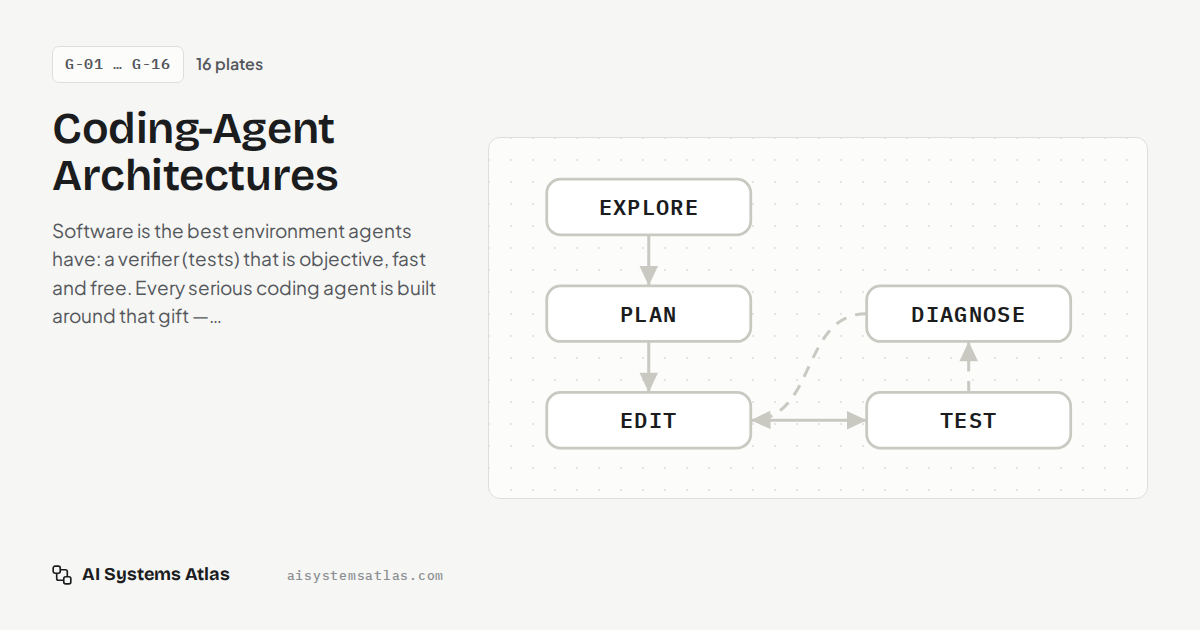
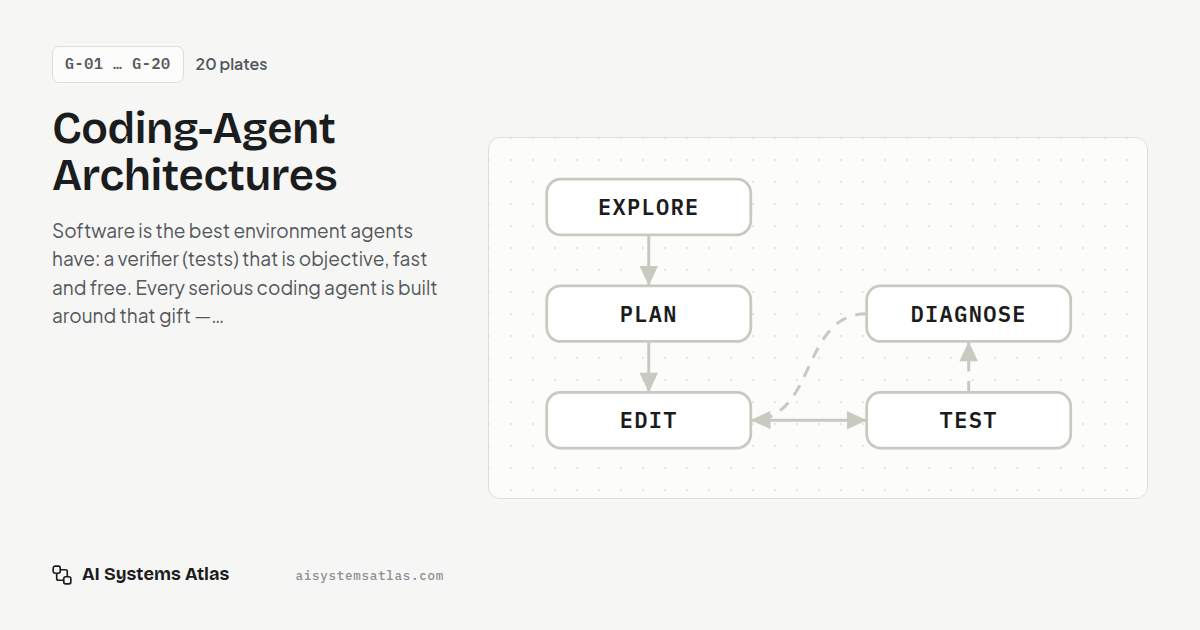
Add coding-agent plates G-17..G-20: background agents, hooks, language servers, reviewing agent PRs
Four new diagrams and plates, five new Claude Code documentation references,
related links from existing plates, and OG images. Also types Plate.refs so
npm run check passes.

Claude-Session: https://claude.ai/code/session_018LCsvUa14dUXz1EFGJHP2n

diff --git a/src/data/diagrams.js b/src/data/diagrams.js
@@ -2543,3 +2543,169 @@ DIAGRAMS.mergeIntegration = {
     { cap: '<span class="cap-ok">So integration is its own role</span> — one place that holds both changes, not a ping-pong between authors.', ok: ['integ'], okE: ['c-i'], d: 2800 },
   ],
 };
+
+/* ---------- CODING G-17..G-20 ---------- */
+
+DIAGRAMS.backgroundAgent = {
+  w: 720, h: 316, dur: 1750,
+  aria: 'Background agent: a developer dispatches a task to a remote sandbox that clones the repo and runs setup, the agent works unattended and opens a pull request, CI failures and review comments wake it to push fixes, and the developer reviews the result later.',
+  nodes: [
+    { id: 'dev', x: 100, y: 70, kind: 'human', label: 'DEVELOPER', sub: 'dispatches a task', w: 160 },
+    { id: 'setup', x: 340, y: 70, kind: 'chip', label: 'FRESH CLONE · SETUP SCRIPT', w: 180, h: 28 },
+    { id: 'agent', x: 340, y: 150, kind: 'model', label: 'AGENT', sub: 'no one watching', w: 180 },
+    { id: 'checks', x: 340, y: 240, kind: 'chip', label: 'RUNS ITS OWN CHECKS', w: 180, h: 28 },
+    { id: 'ci', x: 610, y: 56, kind: 'env', label: 'CI', sub: 'runs on every push', w: 170 },
+    { id: 'pr', x: 610, y: 150, kind: 'data', label: 'BRANCH + PR', w: 170 },
+    { id: 'rev', x: 610, y: 262, kind: 'human', label: 'YOU, LATER', sub: 'review the PR', w: 170 },
+  ],
+  bounds: [{ id: 'sb', x: 226, y: 28, w: 228, h: 250, label: 'REMOTE SANDBOX' }],
+  notes: [
+    { id: 'away', x: 100, y: 146, anchor: 'middle', ghost: true, text: ['laptop closed —', 'the run carries on'] },
+  ],
+  edges: [
+    { id: 'd-s', from: 'dev', to: 'setup', label: 'task', lx: -12, ly: -8 },
+    { id: 's-a', from: 'setup', to: 'agent', label: 'ready', lx: 20, ly: 3 },
+    { id: 'a-c', from: 'agent', to: 'checks', label: 'verify', lx: 22, ly: 3 },
+    { id: 'a-p', from: 'agent', to: 'pr', off: 8, label: 'push', labelT: 0.6, ly: 16 },
+    { id: 'p-ci', from: 'pr', to: 'ci', label: 'triggers', lx: 30, ly: 3 },
+    { id: 'c-a', from: 'ci', to: 'agent', kind: 'ctl', d: 'M525 56 C 478 56 478 136 430 136', label: 'red wakes it', labelT: 0.5, lanchor: 'start', lx: 10, ly: 3 },
+    { id: 'p-r', from: 'pr', to: 'rev', label: 'notify', lx: 26, ly: 3 },
+    { id: 'r-a', from: 'rev', to: 'agent', kind: 'ctl', d: 'M525 262 C 478 262 478 166 430 166', label: 'comments too', labelT: 0.5, lanchor: 'start', lx: 10, ly: 3 },
+  ],
+  steps: [
+    { cap: 'A developer hands off a task and closes the laptop. Nothing about the run needs them present.', n: ['dev'], show: ['away'] },
+    { cap: 'The task lands in a remote sandbox: a fresh clone and the repo’s own setup script, not someone’s machine.', n: ['dev', 'setup'], e: ['d-s'], show: ['away'] },
+    { cap: 'The agent works unattended — explore, edit, and run the checks itself, because nobody else is there to.', n: ['setup', 'agent', 'checks'], e: ['s-a', 'a-c'] },
+    { cap: 'The output is not a chat reply. It is a branch and a pull request, and pushing it starts CI.', n: ['agent', 'pr', 'ci'], e: ['a-p', 'p-ci'] },
+    { cap: '<span class="cap-bad">CI goes red.</span> The failure event, logs included, wakes the agent — nothing polls.', bad: ['ci'], badE: ['c-a'], n: ['agent'] },
+    { cap: 'Once the PR is ready, the developer is notified and reviews it when they choose. Hours later is fine.', n: ['pr', 'rev'], e: ['p-r'] },
+    { cap: 'Review comments are events too: they wake the same agent, in the same sandbox, to push a fix.', n: ['rev', 'agent'], e: ['r-a'] },
+    { cap: '<span class="cap-ok">Green, comments resolved.</span> The human spent minutes reviewing instead of hours supervising.', ok: ['ci', 'pr', 'rev'], okE: ['p-r'], d: 2800 },
+  ],
+};
+
+DIAGRAMS.hooks = {
+  w: 740, h: 332, dur: 1750,
+  aria: 'Hooks and lifecycle events: a session emits fixed events — start, before a tool call, after a tool call, and stop — and at each one the harness runs a script that injects context, blocks a call, formats and lints, or refuses to end the turn while tests are red, whereas an instruction file is only advisory.',
+  nodes: [
+    { id: 'agent', x: 88, y: 64, kind: 'model', label: 'AGENT', sub: 'the session', w: 140 },
+    { id: 'e1', x: 250, y: 64, kind: 'chip', label: 'SESSION START', w: 124 },
+    { id: 'e2', x: 390, y: 64, kind: 'chip', label: 'BEFORE A TOOL', w: 124 },
+    { id: 'e3', x: 530, y: 64, kind: 'chip', label: 'AFTER A TOOL', w: 124 },
+    { id: 'e4', x: 670, y: 64, kind: 'chip', label: 'SAYS “DONE”', w: 124 },
+    { id: 'h1', x: 250, y: 174, kind: 'policy', label: 'INJECT', sub: 'branch · todo', w: 128 },
+    { id: 'h2', x: 390, y: 174, kind: 'policy', label: 'GUARD', sub: 'can block', w: 128 },
+    { id: 'h3', x: 530, y: 174, kind: 'policy', label: 'FORMAT', sub: '+ lint', w: 128 },
+    { id: 'h4', x: 670, y: 174, kind: 'policy', label: 'TESTS', sub: 'gate the stop', w: 128 },
+    { id: 'o1', x: 250, y: 264, kind: 'chip', label: 'STATE IN CONTEXT', w: 124 },
+    { id: 'o2', x: 390, y: 264, kind: 'chip', label: 'BLOCKED + REASON', w: 124 },
+    { id: 'o3', x: 530, y: 264, kind: 'chip', label: 'CLEAN FILE', w: 124 },
+    { id: 'o4', x: 670, y: 264, kind: 'chip', label: 'NOT DONE: 2 RED', w: 124 },
+    { id: 'instr', x: 88, y: 264, kind: 'data', label: 'INSTRUCTIONS', sub: '“always run lint”', w: 150 },
+  ],
+  bounds: [{ id: 'hk', x: 178, y: 118, w: 558, h: 176 }],
+  notes: [{ id: 'hkn', x: 457, y: 316, anchor: 'middle', text: 'the harness runs these, every time — the model cannot skip them' }],
+  edges: [
+    { id: 'a-1', from: 'agent', to: 'e1', kind: 'ctl' },
+    { id: '1-2', from: 'e1', to: 'e2', kind: 'ctl' },
+    { id: '2-3', from: 'e2', to: 'e3', kind: 'ctl' },
+    { id: '3-4', from: 'e3', to: 'e4', kind: 'ctl' },
+    { id: 'e1-h', from: 'e1', to: 'h1', label: 'fires', lx: 20, ly: -2 },
+    { id: 'e2-h', from: 'e2', to: 'h2' },
+    { id: 'e3-h', from: 'e3', to: 'h3' },
+    { id: 'e4-h', from: 'e4', to: 'h4' },
+    { id: 'h1-o', from: 'h1', to: 'o1' },
+    { id: 'h2-o', from: 'h2', to: 'o2', label: 'deny', lx: 18, ly: 3 },
+    { id: 'h3-o', from: 'h3', to: 'o3' },
+    { id: 'h4-o', from: 'h4', to: 'o4', label: 'red', lx: 16, ly: 3 },
+    { id: 'i-a', from: 'instr', to: 'agent', kind: 'ctl', label: 'advisory only', lanchor: 'start', lx: 8, ly: 3 },
+  ],
+  steps: [
+    { cap: 'A session has fixed moments: it starts, it is about to call a tool, the call returns, it declares itself done.', n: ['agent', 'e1', 'e2', 'e3', 'e4'], e: ['a-1', '1-2', '2-3', '3-4'] },
+    { cap: 'Instructions can ask for the same things — <span class="cap-bad">but the model weighs them against everything else, and forgets.</span>', bad: ['instr'], badE: ['i-a'], n: ['agent'] },
+    { cap: 'A hook is a script the harness runs at the moment itself. At session start: put the branch and open task in context.', n: ['e1', 'h1', 'o1'], e: ['e1-h', 'h1-o'], show: ['hk'] },
+    { cap: 'Before a tool call, a guard sees the exact command — and <span class="cap-bad">can refuse it</span>, returning the reason as context.', n: ['e2', 'h2'], bad: ['o2'], e: ['e2-h'], badE: ['h2-o'], show: ['hk'] },
+    { cap: 'After every edit, the formatter and linter run. Not when the model remembers — every time.', n: ['e3', 'h3', 'o3'], e: ['e3-h', 'h3-o'], show: ['hk'] },
+    { cap: 'When the agent says it is done, the tests run first. <span class="cap-bad">Red means the turn cannot end.</span>', n: ['e4', 'h4'], bad: ['o4'], e: ['e4-h'], badE: ['h4-o'], show: ['hk'] },
+    { cap: '<span class="cap-ok">Instructions shape what the model tries to do; hooks decide what happens regardless.</span>', ok: ['h1', 'h2', 'h3', 'h4'], show: ['hk'], d: 2800 },
+  ],
+};
+
+DIAGRAMS.languageServer = {
+  w: 720, h: 372, dur: 1750,
+  aria: 'Language-server integration: grep for a function name returns noisy text matches, while a language server returns the exact definition and references; after each edit the server pushes diagnostics, so a new type error reaches the agent before any test runs.',
+  nodes: [
+    { id: 'agent', x: 100, y: 170, kind: 'model', label: 'AGENT', sub: 'who calls save()?', w: 170 },
+    { id: 'grep', x: 340, y: 60, kind: 'tool', label: 'GREP “save(”', sub: 'text search', w: 170 },
+    { id: 'gres', x: 590, y: 60, kind: 'data', label: '47 TEXT MATCHES', sub: 'mostly the wrong save()', w: 210 },
+    { id: 'lsp', x: 340, y: 170, kind: 'tool', label: 'LANGUAGE SERVER', sub: 'the IDE’s type engine', w: 190 },
+    { id: 'refs', x: 590, y: 170, kind: 'data', label: 'DEFINITION + REFS', sub: '6 call sites, exact', w: 210 },
+    { id: 'edit', x: 300, y: 280, kind: 'tool', label: 'EDIT FILE', w: 140 },
+    { id: 'diag', x: 590, y: 285, kind: 'data', label: 'DIAGNOSTICS', sub: 'arg 2: string, not int', w: 200 },
+  ],
+  notes: [
+    { id: 'fast', x: 600, y: 248, anchor: 'middle', ghost: true, text: 'under a second · no build · no test run' },
+  ],
+  edges: [
+    { id: 'a-g', from: 'agent', to: 'grep', fromSide: 't', toSide: 'l', label: 'search text', labelT: 0.6, ly: -8 },
+    { id: 'g-r', from: 'grep', to: 'gres', label: 'noise', ly: -8 },
+    { id: 'a-l', from: 'agent', to: 'lsp', label: 'by symbol', ly: -8 },
+    { id: 'l-r', from: 'lsp', to: 'refs', label: 'exact', ly: -8 },
+    { id: 'a-e', from: 'agent', to: 'edit', d: 'M130 195 C 130 256 170 280 230 280', label: 'edit', labelT: 0.45, lx: -16, ly: 8 },
+    { id: 'e-l', from: 'edit', to: 'lsp', d: 'M300 260 L300 195', label: 'on change', lx: -30, ly: 3 },
+    { id: 'l-d', from: 'lsp', to: 'diag', d: 'M370 195 C 370 262 420 285 490 285', label: 'pushes', labelT: 0.55, lx: 12, ly: -8 },
+    { id: 'd-a', from: 'diag', to: 'agent', d: 'M590 310 C 590 362 40 362 40 195', label: 'fixed before tests', labelT: 0.5, ly: -7 },
+  ],
+  steps: [
+    { cap: 'The agent needs to change save(). First question: who calls it?', n: ['agent'] },
+    { cap: '<span class="cap-bad">Grep answers a different question</span> — where does the text “save(” appear — and returns comments, strings and three unrelated save methods.', n: ['agent', 'grep'], e: ['a-g'], bad: ['gres'], badE: ['g-r'] },
+    { cap: 'A language server answers the real one. It resolved every type when it indexed the project.', n: ['agent', 'lsp'], e: ['a-l'] },
+    { cap: '<span class="cap-ok">The definition and every true reference, exact</span> — one call, nothing to read through and discard.', n: ['lsp'], ok: ['refs'], okE: ['l-r'] },
+    { cap: 'Now the agent edits. The server re-checks the changed file the moment it is written.', n: ['agent', 'edit', 'lsp'], e: ['a-e', 'e-l'] },
+    { cap: '<span class="cap-bad">A new type error</span> — the second argument is now a string — pushed back in under a second.', n: ['lsp'], bad: ['diag'], badE: ['l-d'], show: ['fast'] },
+    { cap: '<span class="cap-ok">Fixed before any test runs.</span> The cheapest rung of the verifier ladder, attached to every edit.', n: ['diag'], ok: ['agent'], okE: ['d-a'], d: 2800 },
+  ],
+};
+
+DIAGRAMS.agentPrReview = {
+  w: 740, h: 350, dur: 1750,
+  aria: 'Reviewing agent-authored pull requests: several agents open green PRs with a summary and trajectory, all converging on one human reviewer, who checks scope, tests edited alongside code, invented APIs and evidence; any failure goes back to the agent as a narrower task, and four passes merge.',
+  nodes: [
+    { id: 'a1', x: 80, y: 60, kind: 'model', label: 'AGENT', w: 110 },
+    { id: 'a2', x: 80, y: 116, kind: 'model', label: 'AGENT', w: 110 },
+    { id: 'a3', x: 80, y: 172, kind: 'model', label: 'AGENT', w: 110 },
+    { id: 'q', x: 264, y: 116, kind: 'data', label: 'AGENT PRS', sub: 'diff · summary · trajectory', w: 206 },
+    { id: 'rev', x: 474, y: 116, kind: 'human', label: 'REVIEWER', sub: 'finite attention', w: 144 },
+    { id: 'c1', x: 652, y: 58, kind: 'chip', label: 'ONLY THE TASK?', w: 150 },
+    { id: 'c2', x: 652, y: 102, kind: 'chip', label: 'TESTS UNTOUCHED?', w: 150 },
+    { id: 'c3', x: 652, y: 146, kind: 'chip', label: 'APIS REALLY EXIST?', w: 150 },
+    { id: 'c4', x: 652, y: 190, kind: 'chip', label: 'CLAIMS HAVE EVIDENCE?', w: 150 },
+    { id: 'back', x: 460, y: 296, kind: 'chip', label: 'SEND BACK WITH A REASON', w: 180, h: 28 },
+    { id: 'merge', x: 652, y: 296, kind: 'evaluator', label: 'MERGE', w: 150 },
+  ],
+  bounds: [{ id: 'chk', x: 566, y: 16, w: 172, h: 196, label: 'WHAT GREEN CI MISSES' }],
+  notes: [
+    { id: 'load', x: 264, y: 196, anchor: 'middle', ghost: true, text: ['3 agents × 3 PRs a day', '= 9 reviews for 1 person'] },
+  ],
+  edges: [
+    { id: 'a1-q', from: 'a1', to: 'q' },
+    { id: 'a2-q', from: 'a2', to: 'q' },
+    { id: 'a3-q', from: 'a3', to: 'q' },
+    { id: 'q-r', from: 'q', to: 'rev' },
+    { id: 'r-c', from: 'rev', to: 'c2' },
+    { id: 'c-m', from: 'c4', to: 'merge', label: 'four yeses', lx: 34, ly: 3 },
+    { id: 'c-b', from: 'c4', to: 'back', d: 'M566 200 C 510 200 460 230 460 282', label: 'any “no”', labelT: 0.35, lx: -8, ly: -6 },
+    { id: 'b-a', from: 'back', to: 'a3', kind: 'ctl', d: 'M370 296 C 200 296 80 270 80 192', label: 'a narrower task', labelT: 0.45, ly: 15 },
+  ],
+  steps: [
+    { cap: 'Agents open pull requests faster than any team has ever received them.', n: ['a1', 'a2', 'a3', 'q'], e: ['a1-q', 'a2-q', 'a3-q'] },
+    { cap: 'Each arrives green, with a summary and the trajectory: every command the agent ran and what came back.', n: ['q'] },
+    { cap: 'They all converge on one scarce resource — a person’s attention. Review, not generation, is now the bottleneck.', n: ['q', 'rev'], e: ['q-r'], show: ['load'] },
+    { cap: '<span class="cap-bad">Scope creep:</span> files the task never mentioned, “tidied” along the way. Green CI does not care.', n: ['rev'], e: ['r-c'], bad: ['c1'], show: ['chk'] },
+    { cap: '<span class="cap-bad">Tests edited in the same diff as the code</span> — an assertion loosened until it passed.', n: ['rev'], e: ['r-c'], bad: ['c2'], show: ['chk'] },
+    { cap: '<span class="cap-bad">An API that does not exist</span>, called confidently, behind a mock that makes the test pass.', n: ['rev'], e: ['r-c'], bad: ['c3'], show: ['chk'] },
+    { cap: 'The trajectory is the evidence: did it run the tests and read the output, or only say it did?', n: ['c4', 'q'], show: ['chk'] },
+    { cap: '<span class="cap-bad">Any “no” goes back</span> with its reason, as a narrower task — not quietly fixed by the reviewer.', bad: ['back'], badE: ['c-b'], e: ['b-a'], n: ['a3'] },
+    { cap: '<span class="cap-ok">Four yeses → merge.</span> Small, scoped PRs with evidence attached are what keep each review cheap.', ok: ['c1', 'c2', 'c3', 'c4', 'merge'], okE: ['c-m'], d: 2800 },
+  ],
+};

diff --git a/src/data/collections.js b/src/data/collections.js
@@ -204,7 +204,7 @@ export const COLLECTIONS = {
     title: 'Coding-Agent Architectures',
     short: 'Coding Agents',
     prefix: 'G',
-    intro: 'Software is the best environment agents have: a verifier (tests) that is objective, fast and free. Every serious coding agent is built around that gift — the architectures differ mainly in how they explore, how they parallelize, and how they survive long tasks, and the mechanics underneath decide whether any of it works.',
+    intro: 'Software is the best environment agents have: a verifier (tests) that is objective, fast and free. Every serious coding agent is built around that gift — the architectures differ mainly in how they explore, how they parallelize, how they survive long tasks and how their work gets reviewed, and the mechanics underneath decide whether any of it works.',
     plates: [
       P({ slug: 'test-loop', code: 'G-01', title: 'The Test / Diagnose Loop', dg: 'codingLoop',
         def: 'Understand, explore, plan, edit — then let the test suite verify, and diagnose real failures instead of guessing.',
@@ -224,7 +224,7 @@ export const COLLECTIONS = {
         def: 'Push, let CI verify remotely, and let failure events — with logs — wake the agent to fix and push again.',
         insight: 'CI extends the verifier beyond the agent’s machine: same loop as test/diagnose, but event-driven and running against the team’s real gates.',
         failure: 'Poll-and-pray: agents that sleep-loop on CI status burn tokens and miss context that the failure event would have carried for free.',
-        related: [['Event-driven agent', '/harnesses/event-driven'], ['Test loop', '/coding-agents/test-loop']], refs: ['anthropicLongRunning'], kw: 'ci push green pipeline event webhook' }),
+        related: [['Event-driven agent', '/harnesses/event-driven'], ['Test loop', '/coding-agents/test-loop'], ['Background agents', '/coding-agents/background-agents']], refs: ['anthropicLongRunning'], kw: 'ci push green pipeline event webhook' }),
     ],
   },
 };
@@ -308,7 +308,7 @@ const EXT_HARNESS_PLATES = [
     def: 'A policy layer wraps the loop and evaluates every proposed action before anything executes.',
     insight: 'The model decides what it wants to do; the layer decides what it can do. Because the layer is outside the model, no amount of persuasion inside the context reaches it.',
     failure: 'Denials that surface as opaque errors. If the agent cannot see why a call was refused, it retries the same call until the budget runs out.',
-    related: [['Human-in-the-loop', '/harnesses/human-in-the-loop'], ['Direct prompt injection', '/security/direct-prompt-injection'], ['Privilege escalation', '/security/privilege-escalation']],
+    related: [['Human-in-the-loop', '/harnesses/human-in-the-loop'], ['Direct prompt injection', '/security/direct-prompt-injection'], ['Privilege escalation', '/security/privilege-escalation'], ['Hooks & lifecycle events', '/coding-agents/hooks']],
     refs: ['camel', 'willisonDesignPatterns', 'owaspLlm'], kw: 'guardrail policy middleware enforcement allowlist interception authorization' }),
 ];
 
@@ -483,7 +483,7 @@ const EXT_CODING_PLATES = [
     def: 'A separate agent reviews the diff with fresh context, catching what the author’s context normalized.',
     insight: 'Author blindness is a context problem, so the fix is a context boundary — the reviewer’s power is precisely what it hasn’t seen.',
     failure: 'Sharing the author’s conversation with the reviewer “for context”: you’ve rebuilt the same blind spots and doubled the cost.',
-    related: [['Generator–Critic', '/harnesses/generator-critic'], ['Test loop', '/coding-agents/test-loop']], refs: ['selfRefine', 'reflexion'], kw: 'reviewer diff fresh context critique' }),
+    related: [['Generator–Critic', '/harnesses/generator-critic'], ['Test loop', '/coding-agents/test-loop'], ['Reviewing agent PRs', '/coding-agents/reviewing-agent-prs']], refs: ['selfRefine', 'reflexion'], kw: 'reviewer diff fresh context critique' }),
   P({ slug: 'worktrees', code: 'G-07', title: 'Worktree Parallelism', dg: 'worktrees',
     def: 'Each agent works in its own git worktree; merge conflicts are surfaced by git, not by luck.',
     insight: 'Filesystem isolation makes parallel agents boring in the best way — and routes their disagreements through tooling built to resolve them.',
@@ -503,7 +503,7 @@ const EXT_CODING_PLATES = [
     def: 'Symbol maps and semantic search turn ten rounds of grep into one hop.',
     insight: 'Navigation is most of a coding agent’s token bill; an index converts that recurring cost into a one-time build.',
     failure: 'A stale index: confidently wrong answers about code that moved is worse than grep’s slow honesty.',
-    related: [['Researcher + Implementer', '/coding-agents/researcher-implementer'], ['Retrieval & RAG', '/context/retrieval']], refs: ['sweagent', 'rag'], kw: 'index symbol semantic search navigation embedding' }),
+    related: [['Researcher + Implementer', '/coding-agents/researcher-implementer'], ['Retrieval & RAG', '/context/retrieval'], ['Language-server integration', '/coding-agents/language-server']], refs: ['sweagent', 'rag'], kw: 'index symbol semantic search navigation embedding' }),
   P({ slug: 'computer-use', code: 'G-11', title: 'Computer-use Coding', dg: 'computerUse',
     def: 'The agent drives a real browser to verify UI changes — closing the loop unit tests can’t see.',
     insight: 'A screenshot in the loop makes “looks right” a checkable claim: vision extends the verifier to layout, styling, and flow.',
@@ -526,13 +526,13 @@ const EXT_CODING_PLATES_2 = [
     def: 'Format, lint, typecheck, unit, integration, CI — ordered by seconds to signal, cheapest first.',
     insight: 'The test loop draws one verifier; in practice it is a ladder, and the ordering is the design. Most iterations never leave the bottom three rungs, which is what makes an agent that edits fifty times an hour affordable.',
     failure: 'One monolithic “run the tests” step. The agent waits four minutes to be told about a syntax error, and every retry costs the full suite again.',
-    related: [['The test / diagnose loop', '/coding-agents/test-loop'], ['CI feedback loop', '/coding-agents/ci-loop'], ['Actor–Verifier', '/harnesses/actor-verifier']],
+    related: [['The test / diagnose loop', '/coding-agents/test-loop'], ['CI feedback loop', '/coding-agents/ci-loop'], ['Actor–Verifier', '/harnesses/actor-verifier'], ['Language-server integration', '/coding-agents/language-server']],
     refs: ['sweagent', 'swebench', 'verifiers'], kw: 'lint typecheck unit integration ci ladder fast feedback tiers seconds to signal' }),
   P({ slug: 'repo-conventions', code: 'G-14', title: 'Repo Conventions as Context', dg: 'repoConventions',
     def: 'A checked-in instructions file that loads every session — how a codebase tells an agent its rules.',
     insight: 'Put in it what is expensive to discover and cheap to state: the build command, the generated directory, the pattern that looks fine and breaks production. Because it is in the tree, it changes through review, like the code it describes.',
     failure: 'Restating what the code already says. Those lines go stale on the first refactor and then actively mislead every session, which is worse than never having written them.',
-    related: [['Researcher + Implementer', '/coding-agents/researcher-implementer'], ['Files as external context', '/context/files-as-context'], ['Repo indexing', '/coding-agents/repo-indexing']],
+    related: [['Researcher + Implementer', '/coding-agents/researcher-implementer'], ['Files as external context', '/context/files-as-context'], ['Repo indexing', '/coding-agents/repo-indexing'], ['Hooks & lifecycle events', '/coding-agents/hooks']],
     refs: ['anthropicContext', 'anthropicSkills'], kw: 'conventions instructions file agents.md claude.md house style project memory onboarding' }),
   P({ slug: 'integrating-parallel-work', code: 'G-15', title: 'Integrating Parallel Work', dg: 'mergeIntegration',
     def: 'Where two isolated agents’ branches meet — and who holds both intentions well enough to resolve them.',
@@ -544,8 +544,32 @@ const EXT_CODING_PLATES_2 = [
     def: 'Clone, install, build, seed, green — everything that has to work before an agent can begin.',
     insight: 'Autonomous coding runs fail here more than anywhere else, and never on the interesting part. A setup script in the repo, exercised by CI, turns the most common failure into one that breaks in a pull request instead of at 3am.',
     failure: 'Setup that lives in someone’s shell history. It works on the machine it was written on and nowhere else, and the agent’s transcript is forty minutes of dependency errors.',
-    related: [['The eval environment', '/evals/eval-environment'], ['CI feedback loop', '/coding-agents/ci-loop'], ['Sandbox anatomy', '/security/sandboxing']],
+    related: [['The eval environment', '/evals/eval-environment'], ['CI feedback loop', '/coding-agents/ci-loop'], ['Sandbox anatomy', '/security/sandboxing'], ['Background agents', '/coding-agents/background-agents']],
     refs: ['swebench', 'sweagent', 'osworld'], kw: 'bootstrap setup script install dependencies container devcontainer baseline green' }),
+  P({ slug: 'background-agents', code: 'G-17', title: 'Background Agents', dg: 'backgroundAgent',
+    def: 'Dispatch a task to a remote sandbox, walk away, and come back to a branch and a pull request.',
+    insight: 'The unit of work changes from a conversation to a pull request. The human stops supervising steps and starts reviewing results, and CI failures and review comments, not a watching person, are what wake the agent back up.',
+    failure: 'Dispatching work the sandbox can’t verify. With nobody watching and no runnable tests, the agent’s only signal is its own confidence, and the PR arrives looking finished.',
+    related: [['Environment bootstrap', '/coding-agents/environment-bootstrap'], ['CI feedback loop', '/coding-agents/ci-loop'], ['Reviewing agent PRs', '/coding-agents/reviewing-agent-prs'], ['Event-driven agent', '/harnesses/event-driven']],
+    refs: ['claudeCodeCloudSessions', 'anthropicLongRunning'], kw: 'background async cloud remote sandbox unattended dispatch pull request notification wake autofix' }),
+  P({ slug: 'hooks', code: 'G-18', title: 'Hooks & Lifecycle Events', dg: 'hooks',
+    def: 'Scripts the harness runs at fixed moments in a session — session start, before a tool call, after it, at the stop — whatever the model decides.',
+    insight: 'An instruction is a request the model weighs against everything else in its window; a hook is code that runs at the moment itself. Anything that must happen every time, such as formatting, a blocked path or tests before “done”, belongs in a hook.',
+    failure: 'Slow or noisy hooks. A thirty-second check after every edit, or a hook that pours a thousand lines of lint back into context, taxes every step of every session.',
+    related: [['Guardrail middleware', '/harnesses/guardrail-middleware'], ['Repo conventions as context', '/coding-agents/repo-conventions'], ['The verifier ladder', '/coding-agents/verifier-ladder']],
+    refs: ['claudeCodeHooksGuide', 'claudeCodeBestPractices'], kw: 'hooks lifecycle events pre-tool post-tool session start stop deterministic enforce format lint block harness script' }),
+  P({ slug: 'language-server', code: 'G-19', title: 'Language-server Integration', dg: 'languageServer',
+    def: 'The agent asks the same type engine an editor uses for definitions, references and diagnostics, instead of searching text.',
+    insight: 'Grep answers “where does this string appear”; a language server answers “what refers to this symbol”. Diagnostics pushed after every edit add a type check to each change, seconds before any test could run.',
+    failure: 'Trusting a server that is still indexing or misconfigured for the repo layout. It reports stale or false errors, and the agent spends its turns chasing imports that were never broken.',
+    related: [['Repo indexing', '/coding-agents/repo-indexing'], ['The verifier ladder', '/coding-agents/verifier-ladder'], ['The test / diagnose loop', '/coding-agents/test-loop']],
+    refs: ['claudeCodeCodeIntelligence', 'sweagent'], kw: 'lsp language server protocol go to definition find references diagnostics type error symbol navigation grep ide' }),
+  P({ slug: 'reviewing-agent-prs', code: 'G-20', title: 'Reviewing Agent-authored PRs', dg: 'agentPrReview',
+    def: 'What a reviewer, human or bot, checks in an agent’s pull request that green CI does not: scope, tests, real APIs and evidence.',
+    insight: 'Once agents write most of the diffs, review is the bottleneck, so the design goal is a cheap review: small scoped PRs, a summary with evidence attached, and a reviewer bot for the first pass. The trajectory is the cheapest evidence there is.',
+    failure: 'Reviewing an agent PR like a trusted colleague’s. A confident, tidy, green diff invites a skim, and a skim misses the loosened assertion and the helper that doesn’t exist.',
+    related: [['Reviewer agent', '/coding-agents/reviewer-agent'], ['Background agents', '/coding-agents/background-agents'], ['Test-driven agent', '/coding-agents/test-driven'], ['Trajectory eval', '/evals/trajectory-eval']],
+    refs: ['claudeCodeBestPractices', 'claudeCodeCodeReview'], kw: 'review pull request agent authored scope creep tests changed hallucinated api invented trajectory evidence bottleneck reviewer bot' }),
 ];
 
 export const SEARCH_INDEX = [];

diff --git a/src/data/references.js b/src/data/references.js
@@ -133,6 +133,31 @@ export const REFERENCES = {
     where: 'Git documentation',
     url: 'https://git-scm.com/docs/git-worktree',
   },
+  claudeCodeCloudSessions: {
+    title: 'Use Claude Code in the cloud',
+    where: 'Claude Code documentation',
+    url: 'https://code.claude.com/docs/en/claude-code-on-the-web',
+  },
+  claudeCodeHooksGuide: {
+    title: 'Automate actions with hooks',
+    where: 'Claude Code documentation',
+    url: 'https://code.claude.com/docs/en/hooks-guide',
+  },
+  claudeCodeBestPractices: {
+    title: 'Best practices for Claude Code',
+    where: 'Claude Code documentation',
+    url: 'https://code.claude.com/docs/en/best-practices',
+  },
+  claudeCodeCodeIntelligence: {
+    title: 'Code intelligence plugins',
+    where: 'Claude Code documentation',
+    url: 'https://code.claude.com/docs/en/plugins/code-intelligence',
+  },
+  claudeCodeCodeReview: {
+    title: 'Code Review',
+    where: 'Claude Code documentation',
+    url: 'https://code.claude.com/docs/en/code-review',
+  },
 };
 
 /* Resolve a plate's `refs` keys to entries, loudly: an unknown key is a typo, and a silent

diff --git a/src/lib/seo.ts b/src/lib/seo.ts
@@ -5,7 +5,7 @@ export type Plate = {
   slug: string; code: string; title: string; def: string; insight: string; failure: string;
   dg?: string; custom?: string; kw?: string;
   modes?: { id: string; label: string; cls?: string; dg: string }[];
-  related?: [string, string][];
+  related?: [string, string][]; refs?: string[];
 };
 export type Collection = {
   title: string; short: string; prefix: string; intro: string; plates: Plate[];
